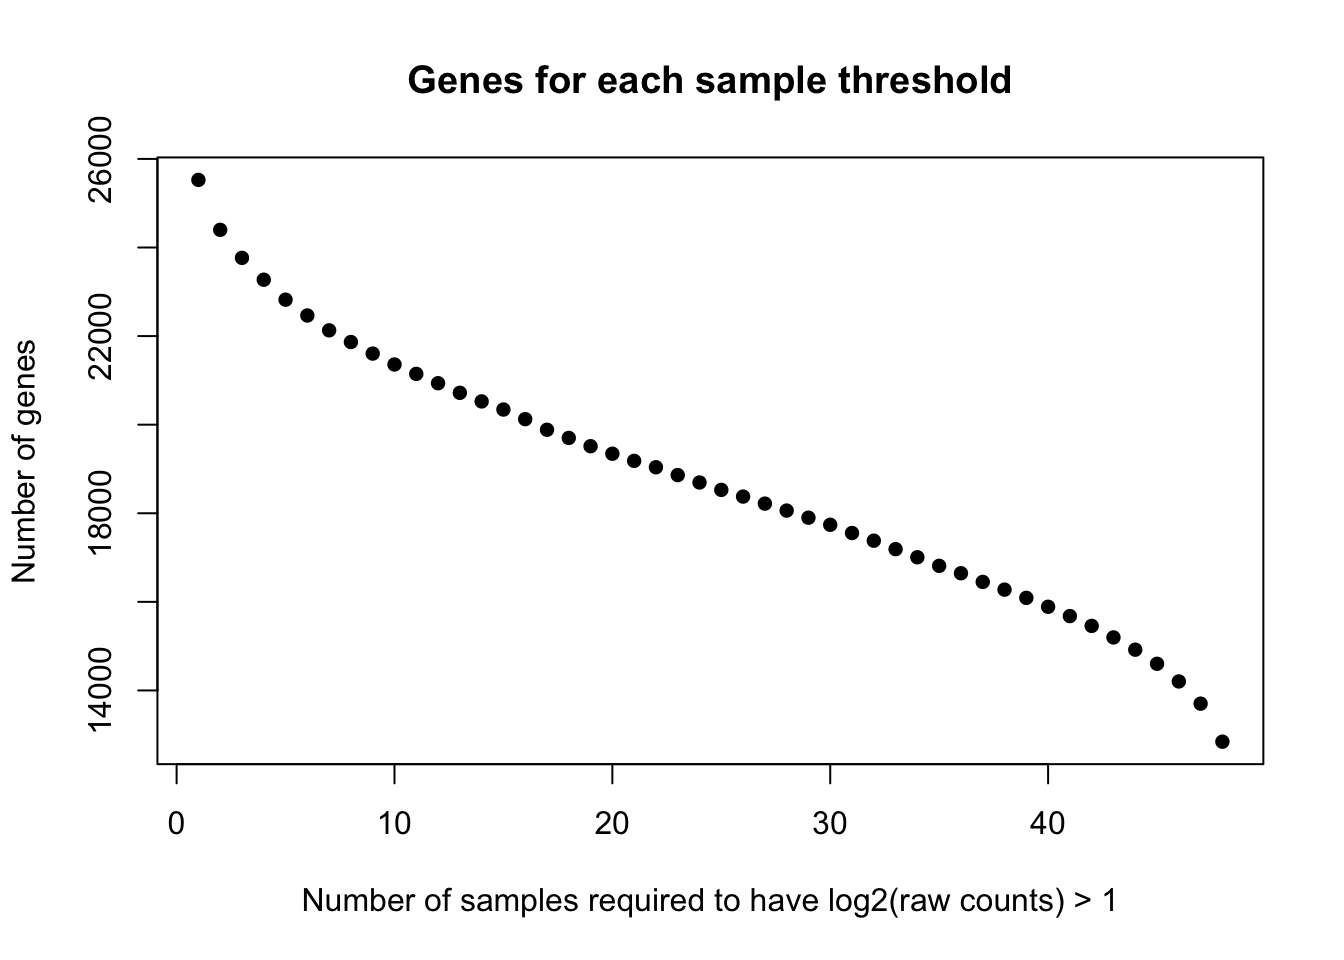
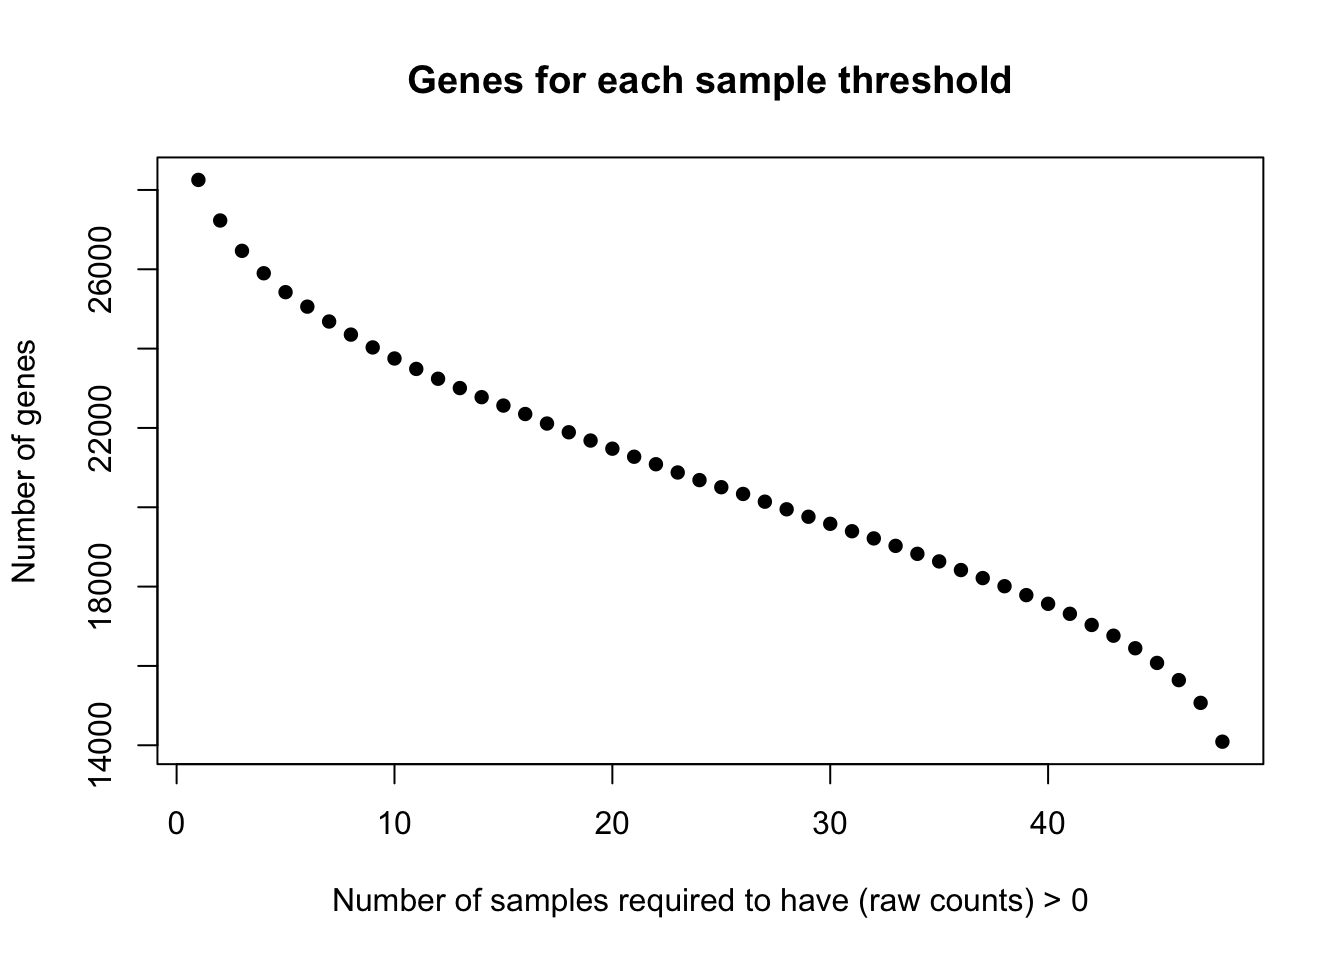
Filtering analysis

diff --git a/analysis/Filtering_analysis.html b/analysis/Filtering_analysis.html
@@ -130,10 +130,10 @@ img {
 <li><a href="#introduction">Introduction</a></li>
 <li><a href="#log2cpm-1-in-at-least-4-samples">log2(CPM) &gt; 1 in at least 4 samples</a></li>
 <li><a href="#different-log2cpm-thresholds-1-to-48-samples-required">Different log2(cpm) thresholds (1 to 48 samples required)</a></li>
-<li><a href="#what-if-we-try-log2raw-counts-1-in-all-48-samples">What if we try log2(raw counts) &gt; 1 in all 48 samples?</a></li>
-<li><a href="#what-if-we-require-log2raw-counts-1-in-1012-samples-for-each-species-regardless-of-tissue">What if we require log2(raw counts) &gt; 1 in 10/12 samples for each species (regardless of tissue)?</a></li>
-<li><a href="#what-if-we-require-log2raw-counts-1-in-34-individuals-for-each-tissue-species-pair">What if we require log2(raw counts) &gt; 1 in 3/4 individuals for each tissue-species pair?</a></li>
-<li><a href="#what-if-we-require-log2raw-counts-1-in-34-individuals-for-34-tissues-in-each-species">What if we require log2(raw counts) &gt; 1 in 3/4 individuals for 3/4 tissues in each species?</a></li>
+<li><a href="#what-if-we-try-raw-counts-0-in-all-48-samples">What if we try raw counts &gt; 0 in all 48 samples?</a></li>
+<li><a href="#for-the-samples-that-do-not-meet-the">For the samples that do not meet the</a></li>
+<li><a href="#what-if-we-require-raw-counts-1-in-34-individuals-for-each-tissue-species-pair">What if we require (raw counts) &gt;= 1 in 3/4 individuals for each tissue-species pair?</a></li>
+<li><a href="#what-if-we-require-raw-counts-1-in-24-individuals-for-34-tissues-in-each-species">What if we require (raw counts) &gt;= 1 in 2/4 individuals for 3/4 tissues in each species?</a></li>
 </ul>
 </div>
 
@@ -277,32 +277,87 @@ plot(filtered_genes, pch = 16, xlab = &quot;Number of samples required to have l
 <p><img src="Filtering_analysis_files/figure-html/unnamed-chunk-3-1.png" title="" alt="" width="672" /></p>
 <p>There are 8916 genes when we require log2(cpm) &gt; 1 in all 48 samples.</p>
 </div>
-<div id="what-if-we-try-log2raw-counts-1-in-all-48-samples" class="section level3">
-<h3>What if we try log2(raw counts) &gt; 1 in all 48 samples?</h3>
+<div id="what-if-we-try-raw-counts-0-in-all-48-samples" class="section level3">
+<h3>What if we try raw counts &gt; 0 in all 48 samples?</h3>
 <pre class="r"><code>#Find number of genes for each sample threshold
 filtered_genes &lt;- array(1:48, dim = (c(48,1)))
-log_counts_genes &lt;- as.data.frame(log2(counts_genes))
 
 for (i in 1:48){
-  log_filtered &lt;- log_counts_genes[rowSums(log_counts_genes &gt; 1) &gt;= i, ] 
-  filter_genes &lt;- as.data.frame(dim(log_filtered))
+  counts_genes_filtered &lt;- counts_genes[rowSums(counts_genes &gt; 0) &gt;= i, ] 
+  filter_genes &lt;- as.data.frame(dim(counts_genes_filtered))
   filtered_genes[i, 1] &lt;- filter_genes[1,]
   
   }
 
 # Plot the results
-plot(filtered_genes, pch = 16, xlab = &quot;Number of samples required to have log2(raw counts) &gt; 1&quot;, ylab = &quot;Number of genes&quot;, main = &quot;Genes for each sample threshold&quot;)</code></pre>
+plot(filtered_genes, pch = 16, xlab = &quot;Number of samples required to have (raw counts) &gt; 0&quot;, ylab = &quot;Number of genes&quot;, main = &quot;Genes for each sample threshold&quot;)</code></pre>
 <p><img src="Filtering_analysis_files/figure-html/unnamed-chunk-4-1.png" title="" alt="" width="672" /></p>
-<p>There are 12843 genes when we require log2(raw counts) &gt; 1 in all 48 samples.</p>
+<p>There are 14090 genes when we require (raw counts) &gt; 0 in all 48 samples.</p>
 </div>
-<div id="what-if-we-require-log2raw-counts-1-in-1012-samples-for-each-species-regardless-of-tissue" class="section level3">
-<h3>What if we require log2(raw counts) &gt; 1 in 10/12 samples for each species (regardless of tissue)?</h3>
+<div id="for-the-samples-that-do-not-meet-the" class="section level3">
+<h3>For the samples that do not meet the</h3>
+<p>We are concerned about the distribution of the missing data (where raw counts &gt; 0) e.g. if one species or tissue-species pair is over-represented in the missing genes</p>
+<pre class="r"><code># Copy the raw counts table
+counts_genes_filtered &lt;- counts_genes
+
+# If the raw count in a cell is &gt; 0, replace the counts with a 1
+counts_genes_filtered[counts_genes_filtered &gt; 0 ] &lt;- 1
+
+# If the raw count in a cell is =&lt; 0, replace the counts with a 0
+counts_genes_filtered[counts_genes_filtered &lt;= 0 ] &lt;- 0
+head(counts_genes_filtered)</code></pre>
+<pre><code>##                 C1H C1K C1Li C1Lu C2H C2K C2Li C2Lu C3H C3K C3Li C3Lu C4H
+## ENSG00000000003   1   1    1    1   1   1    1    1   1   1    1    1   1
+## ENSG00000000005   1   1    1    1   1   1    1    1   1   1    1    1   1
+## ENSG00000000419   1   1    1    1   1   1    1    1   1   1    1    1   1
+## ENSG00000000457   1   1    1    1   1   1    1    1   1   1    1    1   1
+## ENSG00000000460   1   1    1    1   1   1    1    1   1   1    1    1   1
+## ENSG00000000938   1   1    1    1   1   1    1    1   1   1    1    1   1
+##                 C4K C4Li C4Lu H1H H1K H1Li H1Lu H2H H2K H2Li H2Lu H3H H3K
+## ENSG00000000003   1    1    1   1   1    1    1   1   1    1    1   1   1
+## ENSG00000000005   1    1    1   0   1    0    1   1   1    0    0   0   1
+## ENSG00000000419   1    1    1   1   1    1    1   1   1    1    1   1   1
+## ENSG00000000457   1    1    1   1   1    1    1   1   1    1    1   1   1
+## ENSG00000000460   1    1    1   1   1    1    1   1   1    1    1   1   1
+## ENSG00000000938   1    1    1   1   1    1    1   1   1    1    1   1   1
+##                 H3Li H3Lu H4H H4K H4Li H4Lu R1H R1K R1Li R1Lu R2H R2K R2Li
+## ENSG00000000003    1    1   1   1    1    1   1   1    1    1   1   1    1
+## ENSG00000000005    0    0   1   1    0    1   0   0    1    1   1   1    1
+## ENSG00000000419    1    1   1   1    1    1   1   1    1    1   1   1    1
+## ENSG00000000457    1    1   1   1    1    1   1   1    1    1   1   1    1
+## ENSG00000000460    1    1   1   1    1    1   1   1    1    1   1   1    1
+## ENSG00000000938    1    1   1   1    1    1   1   1    1    1   1   1    1
+##                 R2Lu R3H R3K R3Li R3Lu R4H R4K R4Li R4Lu
+## ENSG00000000003    1   1   1    1    1   1   1    1    1
+## ENSG00000000005    1   1   1    1    1   1   1    1    0
+## ENSG00000000419    1   1   1    1    1   1   1    1    1
+## ENSG00000000457    1   1   1    1    1   1   1    1    1
+## ENSG00000000460    1   1   1    1    1   1   1    1    1
+## ENSG00000000938    1   1   1    1    1   1   1    1    1</code></pre>
+<pre class="r"><code># Count the number of 
+x &lt;- colSums(counts_genes_filtered)
+
+par(las=1)
+plot(x, pch = 16, ylab = &quot;Number of Genes with Raw Counts &gt; 0&quot;, xlab = &#39;   &#39;, xaxt = &#39;n&#39;, col = as.factor(samples$Tissue), main = &quot;Number of genes with 1 or more raw counts/sample&quot;)
+axis(side = 1, at = 1:48,labels = samples$Species)
+legend(&quot;bottomright&quot;, c(&quot;Heart&quot;, &quot;Kidney&quot;, &quot;Liver&quot;, &quot;Lung&quot;), lwd = c(2,2,2,2), col = c(&quot;black&quot;, &quot;red&quot;, &quot;green&quot;, &quot;blue&quot;))</code></pre>
+<p><img src="Filtering_analysis_files/figure-html/unnamed-chunk-5-1.png" title="" alt="" width="672" /></p>
 </div>
-<div id="what-if-we-require-log2raw-counts-1-in-34-individuals-for-each-tissue-species-pair" class="section level3">
-<h3>What if we require log2(raw counts) &gt; 1 in 3/4 individuals for each tissue-species pair?</h3>
+<div id="what-if-we-require-raw-counts-1-in-34-individuals-for-each-tissue-species-pair" class="section level3">
+<h3>What if we require (raw counts) &gt;= 1 in 3/4 individuals for each tissue-species pair?</h3>
+<pre class="r"><code>chimp_hearts &lt;- c(1, 5, 9, 12)
+chimp_kidneys &lt;- c(2,6,10,13)
+
+counts_genes_filtered_3 &lt;- counts_genes_filtered
+
+
+counts_genes_filtered_3A &lt;- counts_genes_filtered_3[rowSums(counts_genes_filtered_3[, chimp_hearts] &gt; 0) &gt;= 3, ] 
+
+dim(counts_genes_filtered_3A)</code></pre>
+<pre><code>## [1] 20148    48</code></pre>
 </div>
-<div id="what-if-we-require-log2raw-counts-1-in-34-individuals-for-34-tissues-in-each-species" class="section level3">
-<h3>What if we require log2(raw counts) &gt; 1 in 3/4 individuals for 3/4 tissues in each species?</h3>
+<div id="what-if-we-require-raw-counts-1-in-24-individuals-for-34-tissues-in-each-species" class="section level3">
+<h3>What if we require (raw counts) &gt;= 1 in 2/4 individuals for 3/4 tissues in each species?</h3>
 </div>
 
 
